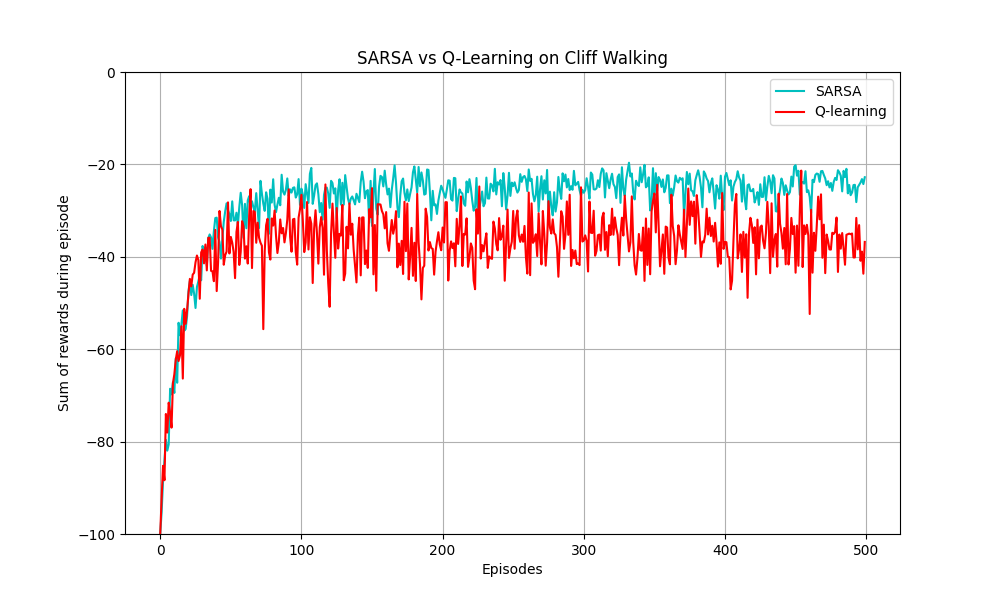
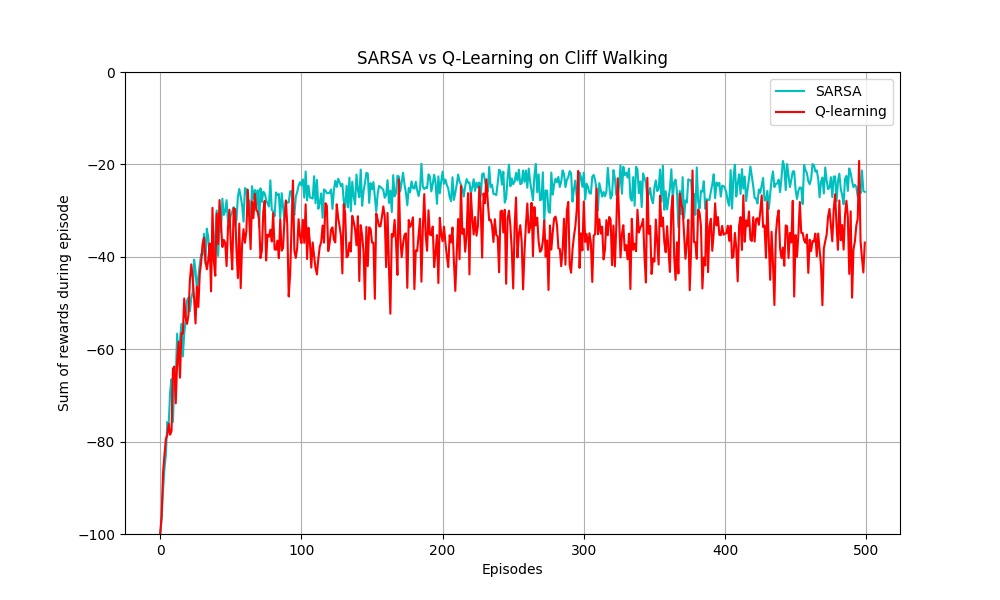
Visualize policy using matplotlib

Changed region(s): [[0.155, 0.27, 0.868, 0.84]]

diff --git a/main.py b/main.py
@@ -47,6 +47,45 @@ def print_policy(agent, env, name):
                 row_str += f" {action_symbols[best_action]} "
         print(row_str)
 
+import matplotlib.patches as patches
+
+def plot_policy(agent, env, name, filename):
+    fig, ax = plt.subplots(figsize=(12, 4))
+    ax.set_xlim(0, env.cols)
+    ax.set_ylim(0, env.rows)
+    ax.set_xticks(np.arange(env.cols + 1))
+    ax.set_yticks(np.arange(env.rows + 1))
+    ax.grid(color='k', linestyle='-', linewidth=2)
+    ax.invert_yaxis() # To make (0,0) at top-left
+    
+    ax.set_xticklabels([])
+    ax.set_yticklabels([])
+    ax.tick_params(axis='both', which='both', length=0)
+    
+    action_symbols = {0: '↑', 1: '→', 2: '↓', 3: '←'}
+    
+    for i in range(env.rows):
+        for j in range(env.cols):
+            state = (i, j)
+            rect_x = j
+            rect_y = i
+            
+            if state == env.start_state:
+                ax.add_patch(patches.Rectangle((rect_x, rect_y), 1, 1, facecolor='lightblue'))
+                ax.text(rect_x + 0.5, rect_y + 0.5, 'Start', ha='center', va='center', fontsize=12, weight='bold')
+            elif state == env.goal_state:
+                ax.add_patch(patches.Rectangle((rect_x, rect_y), 1, 1, facecolor='lightgreen'))
+                ax.text(rect_x + 0.5, rect_y + 0.5, 'Goal', ha='center', va='center', fontsize=12, weight='bold')
+            elif state in env.cliff:
+                ax.add_patch(patches.Rectangle((rect_x, rect_y), 1, 1, facecolor='grey'))
+                ax.text(rect_x + 0.5, rect_y + 0.5, 'Cliff', ha='center', va='center', fontsize=12, weight='bold', color='white')
+            else:
+                best_action = max(env.action_space, key=lambda a: agent.get_q_value(state, a))
+                ax.text(rect_x + 0.5, rect_y + 0.5, action_symbols[best_action], ha='center', va='center', fontsize=20)
+                
+    plt.title(f'{name} Policy')
+    plt.savefig(filename, bbox_inches='tight')
+    plt.close()
 def main():
     runs = 50
     episodes = 500
@@ -80,6 +119,11 @@ def main():
     # Print Policies from the last run
     print_policy(q_agent, env, "Q-Learning")
     print_policy(sarsa_agent, env, "SARSA")
+    
+    # Plot Policies
+    plot_policy(q_agent, env, "Q-Learning", "q_learning_policy.png")
+    plot_policy(sarsa_agent, env, "SARSA", "sarsa_policy.png")
+    print("Policy visualizations saved as 'q_learning_policy.png' and 'sarsa_policy.png'.")
     
     # Plotting
     plt.figure(figsize=(10, 6))

diff --git a/README.md b/README.md
@@ -57,22 +57,12 @@ python main.py
 經過訓練後，兩種演算法最終學習到的 Greedy Policy 路徑如下：
 
 **Q-learning 最終路徑 (貼崖走)：**
-```text
- R  R  R  D  R  R  R  R  R  R  R  D 
- D  R  R  D  D  D  R  R  D  R  R  D 
- R  R  R  R  R  R  R  R  R  R  R  D 
- S  C  C  C  C  C  C  C  C  C  C  G 
-```
+![Q-learning Policy](./q_learning_policy.png)
 - **傾向**：冒險（Risk-seeking）。
 - **分析**：Q-learning 會選擇沿著懸崖邊緣（第三排）的最短路徑。由於這條路徑所需步數最少，理論上能獲得最高的報酬（扣除最少的 -1）。
 
 **SARSA 最終路徑 (繞遠路)：**
-```text
- R  R  R  R  R  R  R  R  R  R  R  D 
- U  U  U  U  U  U  R  U  U  U  R  D 
- U  U  U  U  U  R  U  U  R  U  R  D 
- S  C  C  C  C  C  C  C  C  C  C  G 
-```
+![SARSA Policy](./sarsa_policy.png)
 - **傾向**：保守（Risk-averse）。
 - **分析**：SARSA 學習到遠離懸崖的安全路徑（從上方繞過）。因為 SARSA 是 On-policy，它會把 $\epsilon$-greedy 帶來的不確定性納入更新考量。走在懸崖邊一旦發生隨機探索，掉落的風險太高，因此它寧願多走幾步（多扣幾分）來確保絕對的安全。
 

diff --git a/Report.md b/Report.md
@@ -26,22 +26,12 @@
 經過訓練後，兩種演算法最終學習到的 Greedy Policy 路徑如下：
 
 **Q-learning 最終路徑 (貼崖走)：**
-```text
- R  R  R  D  R  R  R  R  R  R  R  D 
- D  R  R  D  D  D  R  R  D  R  R  D 
- R  R  R  R  R  R  R  R  R  R  R  D 
- S  C  C  C  C  C  C  C  C  C  C  G 
-```
+![Q-learning Policy](./q_learning_policy.png)
 - **傾向**：冒險（Risk-seeking）。
 - **分析**：Q-learning 會選擇沿著懸崖邊緣（第三排）的最短路徑。由於這條路徑所需步數最少，理論上能獲得最高的報酬（扣除最少的 -1）。
 
 **SARSA 最終路徑 (繞遠路)：**
-```text
- R  R  R  R  R  R  R  R  R  R  R  D 
- U  U  U  U  U  U  R  U  U  U  R  D 
- U  U  U  U  U  R  U  U  R  U  R  D 
- S  C  C  C  C  C  C  C  C  C  C  G 
-```
+![SARSA Policy](./sarsa_policy.png)
 - **傾向**：保守（Risk-averse）。
 - **分析**：SARSA 學習到遠離懸崖的安全路徑（從上方繞過）。因為 SARSA 是 On-policy，它會把 $\epsilon$-greedy 帶來的不確定性納入更新考量。走在懸崖邊一旦發生隨機探索，掉落的風險太高，因此它寧願多走幾步（多扣幾分）來確保絕對的安全。
 